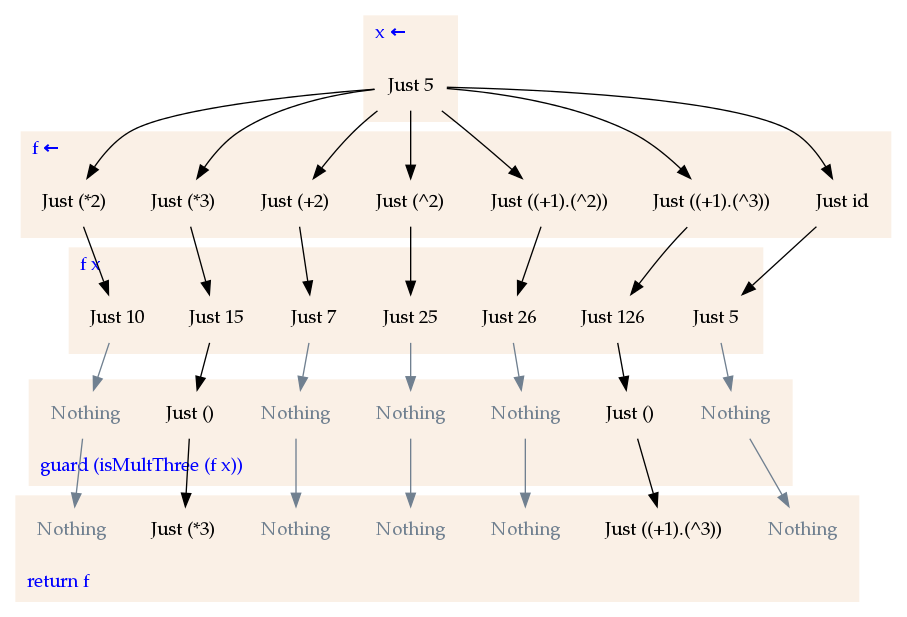
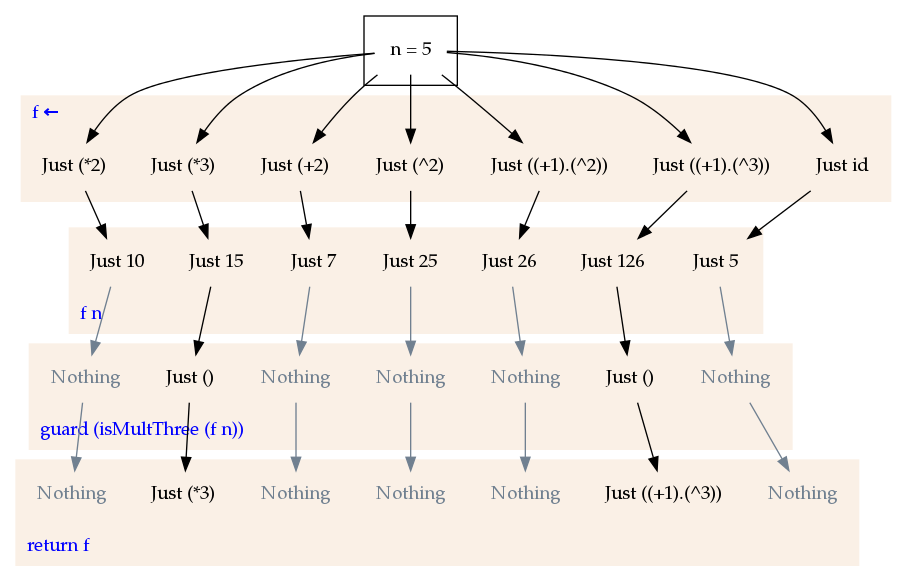
most of article

diff --git a/copy/entries/monad-plus-2.md b/copy/entries/monad-plus-2.md
@@ -209,7 +209,8 @@ result of every path that could have lead to a success.  Contrast this to the
 any choice.  There is only one path --- succesful, or otherwise.  A `Maybe` is
 deterministic...a list provides a choice in paths.
 
-### halveOrDouble
+halveOrDouble
+-------------
 
 Let's take a simple example: `halveOrDouble`.  It provides two succesful paths
 if you are even: halving and doubling.  It only provides one choice or
@@ -266,7 +267,7 @@ double-halve, or double-double.  The second, 6 could have emerged succesful
 with halve-double, double-halve, or double-double.  For 8, all paths are
 succesful, incidentally.  He better check his privilege.
 
-#### Do notation
+### Do notation
 
 Let's look at this in the do notation form to offer some possible insight:
 
@@ -319,7 +320,7 @@ hod2PlusOne n = do              -- hod2plusOne 6
 
 ~~~haskell
 λ: hod2PlusOne 6
-[4, 13, 13]
+[   4,13,13]
 ~~~
 
 Okay!  This is getting interesting now.  What's going on?  Well, there are
@@ -338,13 +339,13 @@ four possible "paths".
     --- 4.  This is just like how in the Maybe monad, we return a new value
     after the guard.
 3.  In the double-halve path, `x` (the result of the first operation, a
-    double) is 12.  The second operation makes the value in the journey a 6.
+    double) is 12.  The second operation makes the value in the journey a 6;
     At the end of it all, we succeed with whatever the value of `x` is on that
     specific journey (12) is, plus one.  13.
 4.  Same story here, but for double-double; `x` is 12.  At the end of it all,
     the journey never fails, so it succeeds with `x + 1`, or 13.
 
-#### Taking it every way
+#### Trying out every path
 
 If this doesn't satisfy you, here is an example of four Maybe do blocks where
 we "flesh out" each possible path, with the value of the block at each line in
@@ -392,12 +393,19 @@ fails.  The left-right journey (the halve-double journey) passes, and at the
 end is given the value of `x + 1` for the `x` in that particular journey.  The
 other journeys work the same way!
 
-### Solving real-ish problems
+Solving real-ish problems
+-------------------------
 
-Okay, we are *almost* ready to finally implement our solution to the
-Wolf/Goat/Cabbage puzzle.  Just one more demonstration.
+That wasn't too bad!  We're *almost* ready to begin implementing our solution
+to the Wolf/Goat/Cabbage puzzle.
 
-Let's try this somewhat practical question:
+But we're going to go through a couple more examples of branching journies
+first --- both as a way to build more familiarity with the "branching journey
+monad" (list), and also as a nice conclusion to this post.
+
+### Testing Multiple Conditions
+
+Here's a fun one.
 
 "What operations on a number will make it a multiple of three?"
 
@@ -407,8 +415,7 @@ isMultThree a = a `mod` 3 == 0
 
 testNumber :: Int -> [String]
 testNumber n = do
-    x <- return n                                       -- 2
-    (f, fName)  <-  [ ((*2)         , "times two")      -- 3
+    (f, fName)  <-  [ ((*2)         , "times two")      -- 2
                     , ((*3)         , "times three")
                     , ((+2)         , "plus two")
                     , ((+3)         , "plus three")
@@ -417,10 +424,10 @@ testNumber n = do
                     , ((+1).(^3)    , "cube plus 1")
                     , (id           , "stay the same")
                     ]
-    let z = f x                                         -- 4
+    let z = f n                                         -- 3
 
-    guard $ isMultThree z                               -- 5
-    return fName                                        -- 6
+    guard $ isMultThree z                               -- 4
+    return fName                                        -- 5
 ~~~
 
 ~~~haskell
@@ -440,15 +447,13 @@ Let's go over this step-by-step:
 
 1.  First of all, define the utility function `isMultThree a`, which is true
     when `a` is a multiple of three and false when it isn't.
-1.  In the block, `x` is set to be a choice in the journey.  This choice is
-    always going to be `n`, but if we wanted to test multiple numbers, we
-    could do something like `x <- [n, n+1, n+2]`.
-2.  Now, the journey digerges.  `f` and `fName` is now a value that depends on
-    the path we took.  If we took the first path, `f = (*2)` (the doubling
-    function) and `fName = "times two"`.  On the second path, `f = (*3)` (the
-    tripling function) and `fName = "times three"`, etc.
+2.  The journey diverges immediately.  `f` and `fName` is now a value that
+    depends on the path we take.  If we take the first path, `f = (*2)` (the
+    doubling function) and `fName = "times two"`.  On the second path, `f =
+    (*3)` (the tripling function) and `fName = "times three"`, etc.
 3.  We alias `z` to be the function we chose applied to `x`.  If we had chosen
-    the path `f = (*2)`, `z` would be `(*2) x`, which is `x*2`.
+    the path `f = (*2)`, `z` would be `(*2) x`, which is `x*2`.  This is
+    mainly for readability.
 4.  We check if `z` is a multiple of three.  If it isn't, the journey sadly
     ends here.  For example, if we called the function with `n = 4`, and we
     had chosen `f = (^2)` (the square function), this journey (involving the
@@ -457,6 +462,73 @@ Let's go over this step-by-step:
 5.  At the end of the weary journey, we return the name of the function we
     chose.  This step is never reached for failed journeys.
 
-Here is a diagram!
+Here is another diagram, similar to the last.
 
 ![*testNumber 5*, all journeys illustrated](/img/entries/monad-plus/testnumber.png "testNumber 5")
+
+### Testing combinations
+
+Here is probably the most common of all examples involving the list monad:
+finding Pythagorean triples.
+
+~~~haskell
+triplesUnder n = do
+    a <- [1..n]                     -- 1
+    b <- [a..n]                     -- 2
+    c <- [b..n]                     -- 3
+    guard $ a^2 + b^2 == c^2        -- 4
+    return (a,b,c)                  -- 5
+~~~
+
+1.  Our journey begins with picking a number between 1 and `n` and setting it
+    to `a`.
+2.  Next, we pick a number between `a` and `n` and set it to `b`.  In order to
+    be unique, our triples should probably go in ascending order.  That's why
+    we want our pick for `b` to be at least `a`.
+3.  Next, we pick a number between `b` and `n`.  This is our hypotenuse, and
+    of course all hypontenii are larger than either side.
+4.  Now, we mercilessly and ruthlessly end all journeys who were unfortunate
+    enough to pick a non-Pythagorean combination --- combinations where `a^2 +
+    b^2` is not `c^2`
+5.  For those successful journeys, we succeed with a tuple containing our
+    victorious triple `(a,b,c)`.
+
+Let's try "following" this path with some arbitrary choices, looking at
+arbitrary journeys for `n = 10`:
+
+*   We pick `a = 2`, `b = 3`, and `c = 9`.  All is good until we get to the
+    guard.  `a^2 + b^2` is 10, which is not `c^2` (81), unfortunately.  This
+    `(2,3,10)` journey ends here.
+*   We pick `a = 3`, `b = 4`, and `c = 5`.  On the guard, we succeed: `a^2 +
+    b^2` is 25, which indeed is `c^2`.  Our journey passes the guard, and then
+    succeeds with a value of `(3,4,5)`. This is indeed counted among the
+    successful paths --- among the victorious!
+
+Paths like `a = 5` and `b = 3` do not even happen.  This is because if we pick
+`a = 5`, then in that particular journey, `b` can only be chosen between `5`
+and `n` inclusive.
+
+Remember, the final result is the accumulation of **all such successful
+journeys**.  A little bit of combinatorics will show that there are $n! /
+(n-3)!$ possible journeys to attempt.  Only the ones that do not fail (at the
+guard) will make it to the end.  Remember how MonadPlus works --- one failure
+along the journey means that the *entire journey* is a failure.
+
+Let's see what we get when we try it at the prompt:
+
+~~~haskell
+λ: triplesUnder 10
+[ ( 3, 4, 5),( 6, 8,10) ]
+λ: triplesUnder 25
+[ ( 3, 4, 5),( 5,12,13),( 6, 8,10),( 7,24,25)
+ ,( 8,15,17),( 9,12,15),(12,16,20),(15,20,25) ]
+~~~
+
+Perfect!  You can probably quickly verify that all of these solutions are
+indeed Pythagorean triples.
+
+I'm not going to put a diagram here because I'm going to have to display 60
+branches for `triplesUnder 5` --- but I'm sure by now that you get the
+picture.
+
+
